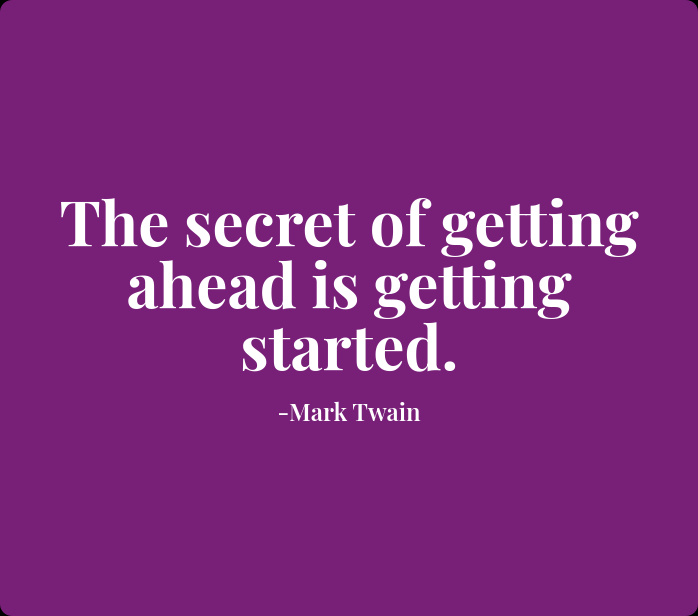
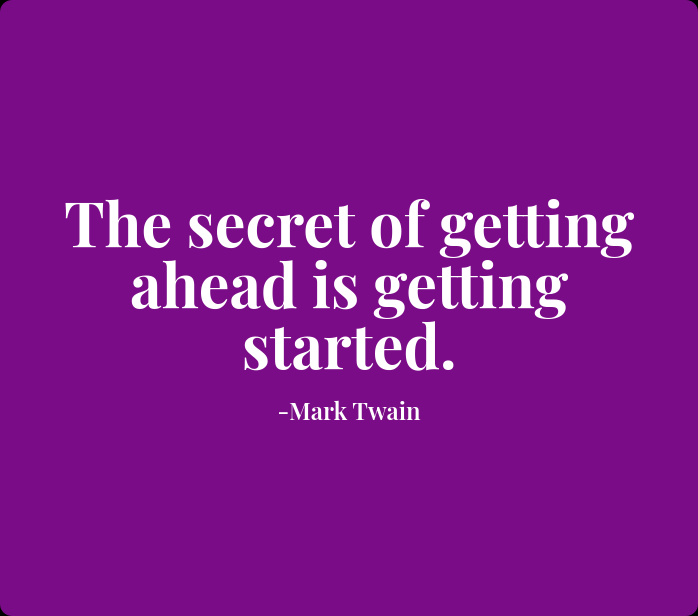
feat: add templates feature

Changed region(s): [[0.0903, 0.3084, 0.9327, 0.6169], [0.3911, 0.6477, 0.6017, 0.7094], [0.4513, 0.4318, 0.5115, 0.4935]]

diff --git a/src/data/templates.js b/src/data/templates.js
@@ -1,56 +1,79 @@
 import image1 from "/src/assets/image-1.jpeg";
 import image2 from "/src/assets/image-2.jpeg";
+import image3 from "/src/assets/image-3.jpeg";
+import image4 from "/src/assets/image-4.jpeg";
+import image5 from "/src/assets/image-5.jpeg";
+import image6 from "/src/assets/image-6.jpeg";
 
 const templatesData = [
   {
-    background: image1,
+    backgroundImage: image1,
+    background: "linear-gradient(to right, cyan, blue)",
     textColor: "#ffffff",
     font: "Shadows Into Light",
-    size: 76,
+    size: 73,
     opacity: 1,
     genre: "famous-quotes",
+    input: "We make our own fortunes and we call them fate.",
+    author: "Benjamin Disraeli",
   },
   {
-    background:
-      "blob:http://localhost:5173/1295a208-8367-4029-98e8-fad01ccb8ecc",
+    backgroundImage: image2,
+    background: "#7b0c87",
     textColor: "#ffffff",
-    font: "Bebas Neue",
-    size: 80,
-    opacity: 1,
-    genre: "famous-quotes",
-  },
-  {
-    background: image2,
-    textColor: "#ffffff",
-    font: "Shadows Into Light",
-    size: 76,
-    opacity: 1,
-    genre: "famous-quotes",
-  },
-  {
-    background:
-      "linear-gradient(to right, rgb(255, 121, 121), rgb(179, 255, 179))",
-    textColor: "#000000",
     font: "Playfair Display",
-    size: 56,
+    size: 61,
     opacity: 1,
     genre: "famous-quotes",
+    input: "The secret of getting ahead is getting started.",
+    author: "Mark Twain",
   },
   {
+    backgroundImage: image3,
     background: "#ffbb00",
     textColor: "#000000",
     font: "Bebas Neue",
     size: 73,
     opacity: 1,
     genre: "famous-quotes",
+    input: "Never mistake activity for achievement.",
+    author: "John Wooden",
   },
   {
-    background: "#ffbb00",
+    backgroundImage: image4,
+    background:
+      "linear-gradient(to right, rgb(255, 249, 176), rgb(182, 215, 168))",
     textColor: "#000000",
-    font: "Bebas Neue",
+    font: "Sedan",
+    size: 64,
+    opacity: 1,
+    genre: "famous-quotes",
+    input: "If it is not right do not do it; if it is not true do not say it.",
+    author: "Marcus Aurelius",
+  },
+  {
+    backgroundImage: image5,
+    background:
+      "blob:http://localhost:5173/52b79ef6-509f-4a88-a0e6-c3f6e6e4c7ae",
+    textColor: "#ffffff",
+    font: "Permanent Marker",
+    size: 58,
+    opacity: 1,
+    genre: "famous-quotes",
+    input: "Our strength grows out of our weaknesses.",
+    author: "Ralph Waldo Emerson",
+  },
+  {
+    backgroundImage: image6,
+    background:
+      "linear-gradient(to right, rgb(255, 182, 193), rgb(255, 238, 153))",
+    textColor: "#000000",
+    font: "Caveat",
     size: 73,
     opacity: 1,
     genre: "famous-quotes",
+    input: "We know what we are but know not what we may be.",
+    author: "William Shakespeare",
   },
 ];
 

diff --git a/src/components/quoteCard.jsx b/src/components/quoteCard.jsx
@@ -92,6 +92,8 @@ const QuoteCard = () => {
       size: quoteConfig.size,
       opacity: quoteConfig.opacity,
       genre: quoteConfig.genre,
+      input: quote.input,
+      author: quote.author,
     });
     navigator.clipboard.writeText(jsonString);
   }
@@ -107,6 +109,23 @@ const QuoteCard = () => {
   function handleGradientChange(event) {
     const gradient = event.target.style.backgroundImage;
     setQuoteConfig((prev) => ({ ...prev, background: gradient }));
+  }
+
+  function handleTemplateClick(template) {
+    setQuote((prev) => ({
+      ...prev,
+      author: template.author,
+      input: template.input,
+    }));
+    setQuoteConfig((prev) => ({
+      ...prev,
+      background: template.background,
+      textColor: template.textColor,
+      font: template.font,
+      size: template.size,
+      opacity: template.opacity,
+      genre: template.genre,
+    }));
   }
 
   return (
@@ -362,10 +381,11 @@ const QuoteCard = () => {
                       key={index}
                       className="h-28 w-28 cursor-pointer rounded-md border"
                       style={{
-                        backgroundImage: `url(${template.background})`,
+                        backgroundImage: `url(${template.backgroundImage})`,
                         backgroundPosition: "center center",
                         backgroundSize: "cover",
                       }}
+                      onClick={() => handleTemplateClick(template)}
                     ></div>
                   );
                 })}
